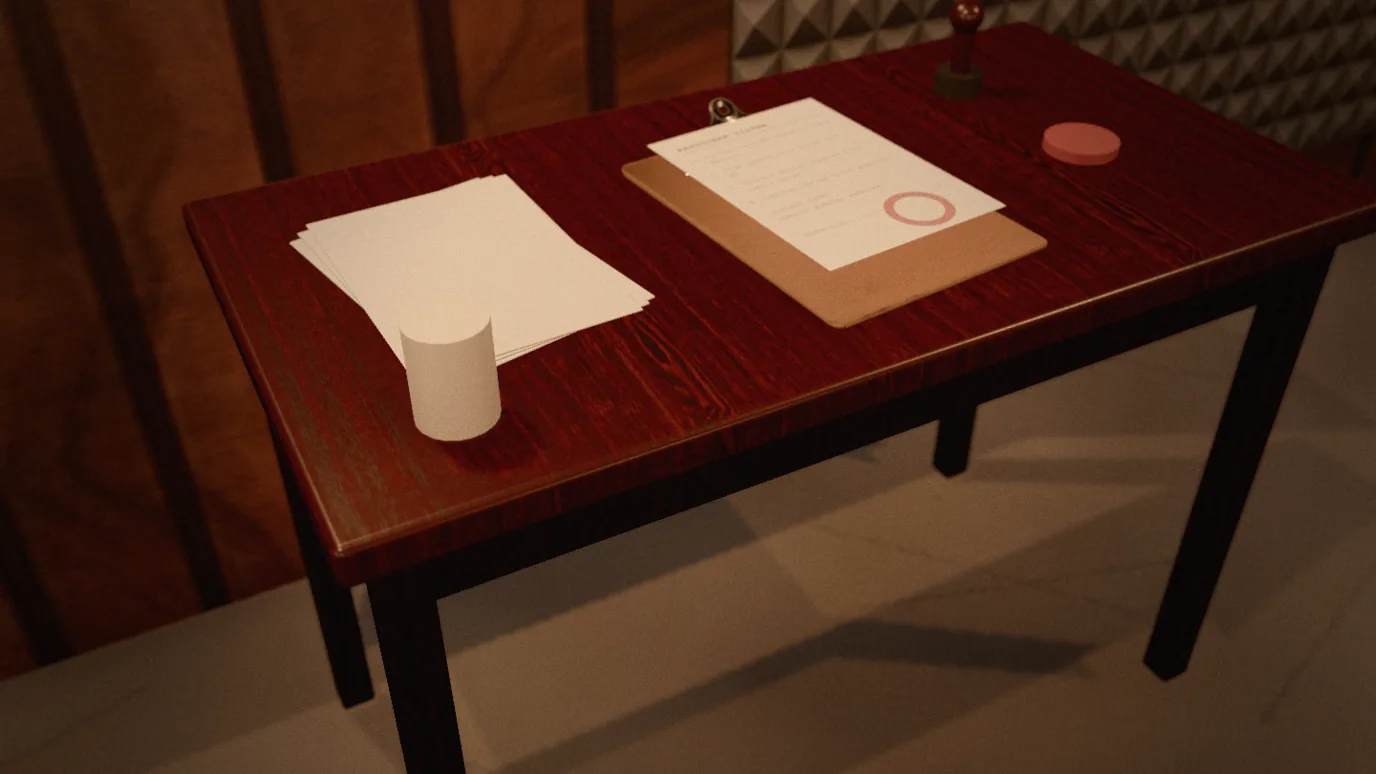
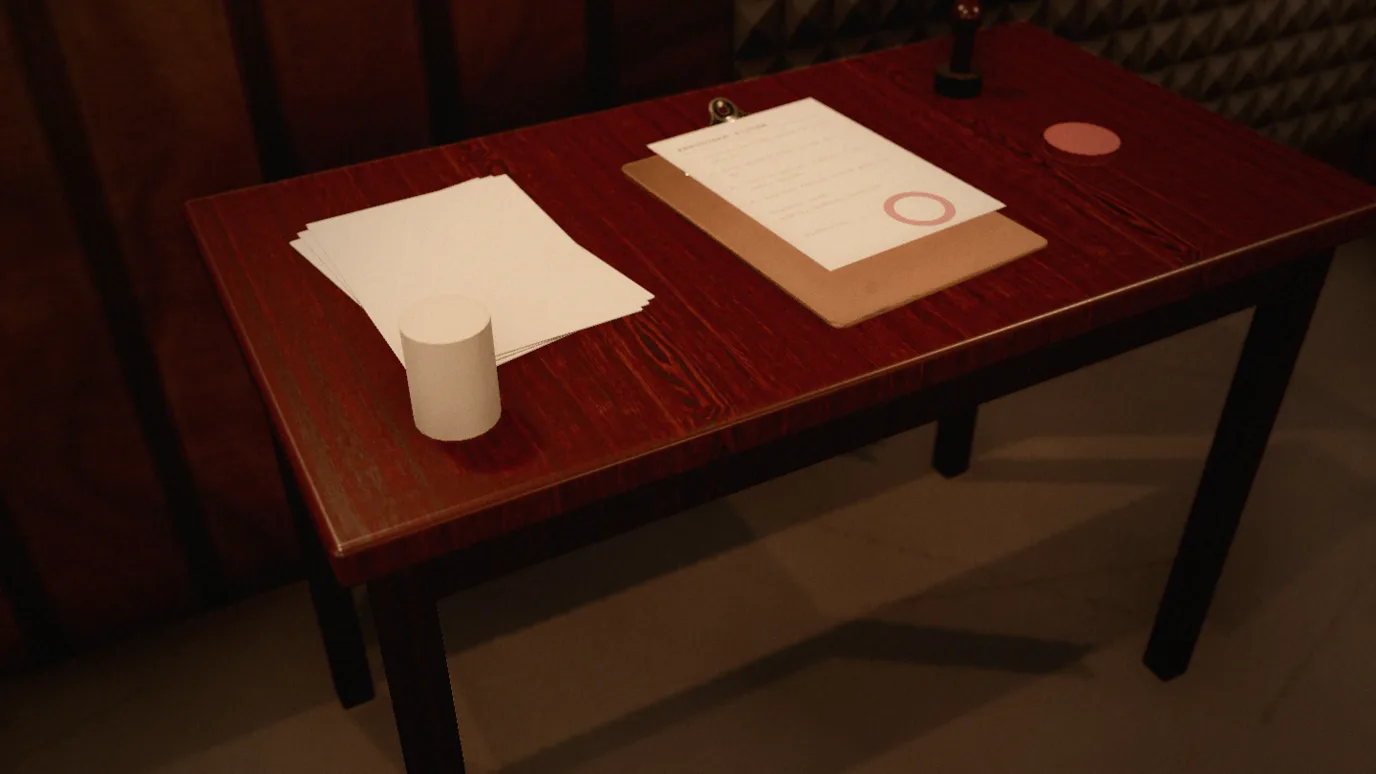
feat: bayangan kontak N8AO, latihan shader dunia dan rak dicicil
AO buatan sendiri diganti N8AO (n8ao 2.0.1, postprocessing 6.39.6) supaya
benda di tur cerita menempel ke meja. Setengah resolusi dimatikan karena
melempar galat dengan target pinjaman; penjaga kualitas menurunkan titik
lalu mematikan AO.

Jeda rak ternyata bukan soal bahan fisik: ANGLE baru menyelesaikan program
saat draw pertama. Latihan dunia kini ikut menggambar benda di luar
pandangan dan yang tersembunyi, rak dilatih tiga mesh per bingkai. Jeda
terbesar dekat rak 912 ke 546 ms, bingkai terburuk HP 685 ke 170 ms.

Gambar mode Ringan dibuat ulang. ADR 0017.

diff --git a/components/dunia/dunia.js b/components/dunia/dunia.js
@@ -1,6 +1,7 @@
 import * as THREE from "three";
 import { GLTFLoader } from "three/addons/loaders/GLTFLoader.js";
 import { MeshoptDecoder } from "three/addons/libs/meshopt_decoder.module.js";
+import { N8AOPass } from "n8ao";
 import { ANCHOR, anchorTegak, nyalaFondasi, easeInOut, poseAntara, durasiBlend, kekuatanBlur } from "./naskah";
 import { buatPropsCerita } from "./props";
 
@@ -403,9 +404,30 @@ export function buatDunia(wadah, { kurangiGerak = false, tema = "gelap", onProgr
   const sampel = hp ? 0 : 4;
   const kedalaman = new THREE.DepthTexture(1, 1);
   const target = new THREE.WebGLRenderTarget(1, 1, { type: THREE.HalfFloatType, samples: sampel, depthTexture: kedalaman });
+  // Ambient occlusion N8AO (ADR 0017): sudut, kolong, dan kaki benda gelap alami, supaya benda
+  // menapak. Adegan tetap digambar sekali ke `target`; N8AO memakai warna dan kedalamannya
+  // (autoRenderBeauty mati), lalu hasilnya, masih linear, dibaca lintasan layar di bawah.
+  const ao = new N8AOPass(scene, camera, 1, 1);
+  ao.beautyRenderTarget.dispose();
+  ao.beautyRenderTarget = target;
+  Object.assign(ao.configuration, {
+    autoRenderBeauty: false,
+    gammaCorrection: false,
+    aoRadius: 1.1,
+    distanceFalloff: 1,
+    intensity: 5,
+    aoSamples: hp ? 8 : 16,
+    denoiseSamples: hp ? 4 : 8,
+  });
+  // Jalur setengah resolusi N8AO (halfRes) tidak dipakai: dengan target adegan pinjaman ia
+  // melempar galat tiap bingkai (terukur 13 Nov 2026). HP memakai sampel lebih sedikit.
+  let aoAktif = true;
+  ao.configuration.color.setHex(0x1a1410);
+  const hasilAO = new THREE.WebGLRenderTarget(1, 1, { type: THREE.HalfFloatType });
+
   const blur = new THREE.ShaderMaterial({
     uniforms: {
-      tWarna: { value: target.texture },
+      tWarna: { value: hasilAO.texture },
       tDalam: { value: kedalaman },
       uBalik: { value: new THREE.Matrix4() },
       uLalu: { value: new THREE.Matrix4() },
@@ -420,7 +442,6 @@ export function buatDunia(wadah, { kurangiGerak = false, tema = "gelap", onProgr
       uDekat: { value: 0.05 },
       uJauh: { value: 40 },
       uPiksel: { value: new THREE.Vector2(1, 1) },
-      uAo: { value: hp ? 0 : 1 },
       uFokus: { value: 2 },
       uDof: { value: 0 },
     },
@@ -442,7 +463,6 @@ export function buatDunia(wadah, { kurangiGerak = false, tema = "gelap", onProgr
       uniform float uDekat;
       uniform float uJauh;
       uniform vec2 uPiksel;
-      uniform float uAo;
       uniform float uFokus;
       uniform float uDof;
       float acak(vec2 p) { return fract(sin(dot(p, vec2(12.9898, 78.233))) * 43758.5453); }
@@ -474,23 +494,6 @@ export function buatDunia(wadah, { kurangiGerak = false, tema = "gelap", onProgr
             }
             c.rgb = jumlah / bobot;
           }
-        }
-        // Ambient occlusion layar: delapan titik di sekitar piksel, gelap bila tetangganya lebih
-        // dekat ke kamera dalam jangkauan 30 cm. Membuat sudut, celah, dan kaki benda menyatu.
-        if (uAo > 0.5 && zKini < 15.0) {
-          float ao = 0.0;
-          float putar = acak(gl_FragCoord.xy + 7.0) * 6.2832;
-          float rad = 0.22 / zKini;
-          for (int i = 0; i < 8; i++) {
-            float fi = float(i);
-            float a = fi * 0.7854 + putar;
-            float r = rad * (0.35 + 0.65 * fract(fi * 0.618 + putar));
-            vec2 uv = vUv + vec2(cos(a) / uAspek, sin(a)) * r;
-            float zS = linear(texture2D(tDalam, uv).x);
-            float beda = zKini - zS;
-            ao += step(0.015, beda) * (1.0 - smoothstep(0.0, 0.3, beda));
-          }
-          c.rgb *= 1.0 - (ao / 8.0) * 0.55;
         }
         if (uKuat > 0.001) {
           float d = texture2D(tDalam, vUv).x;
@@ -542,6 +545,7 @@ export function buatDunia(wadah, { kurangiGerak = false, tema = "gelap", onProgr
     if (!kurangiGerak) blur.uniforms.uBenih.value = (blur.uniforms.uBenih.value + 37.13) % 1000;
     renderer.setRenderTarget(target);
     renderer.render(scene, camera);
+    if (aoAktif) ao.render(renderer, hasilAO);
     renderer.setRenderTarget(null);
     renderer.render(adeganLayar, kameraLayar);
     vpLalu.copy(vpKini);
@@ -601,6 +605,8 @@ export function buatDunia(wadah, { kurangiGerak = false, tema = "gelap", onProgr
     const pw = Math.max(1, Math.floor(w * rasio));
     const ph = Math.max(1, Math.floor(h * rasio));
     target.setSize(pw, ph);
+    ao.setSize(pw, ph);
+    hasilAO.setSize(pw, ph);
     camera.aspect = w / h;
     blur.uniforms.uAspek.value = w / h;
     blur.uniforms.uPiksel.value.set(1 / pw, 1 / ph);
@@ -629,8 +635,14 @@ export function buatDunia(wadah, { kurangiGerak = false, tema = "gelap", onProgr
     if (buruk >= 2 && rasio > 0.75) {
       buruk = 0;
       rasio = Math.max(0.75, rasio - 0.2);
-      // Langkah pertama yang dikorbankan: AO layar, efek termahal per piksel.
-      blur.uniforms.uAo.value = 0;
+      // Yang pertama dikorbankan AO: sampelnya dikurangi, lalu dimatikan.
+      if (ao.configuration.aoSamples > 8) {
+        ao.configuration.aoSamples = 8;
+        ao.configuration.denoiseSamples = 4;
+      } else if (aoAktif) {
+        aoAktif = false;
+        blur.uniforms.tWarna.value = target.texture;
+      }
       ukur();
     }
   };
@@ -806,15 +818,27 @@ export function buatDunia(wadah, { kurangiGerak = false, tema = "gelap", onProgr
 
   // Gambar latihan sekelompok benda ke render target 1 piksel. Benda lain disembunyikan hanya
   // di dalam panggilan ini, jadi bingkai biasa tidak pernah melihat adegan yang setengah.
+  // frustumCulled dimatikan: benda di luar pandangan kamera saat itu juga harus tergambar, kalau
+  // tidak programnya baru diselesaikan ANGLE saat pertama terlihat (trace 13 Nov 2026: 778 ms
+  // beku di dekat rak, karena GPU sedang mengompilasi shader rak).
   const latih = (kelompok) => {
     const sembunyi = [];
     scene.traverse((o) => o.isMesh && o.visible && !kelompok.includes(o) && (sembunyi.push(o), (o.visible = false)));
+    const pulih = kelompok.map((o) => [o, o.visible, o.frustumCulled]);
+    for (const o of kelompok) {
+      o.visible = true;
+      o.frustumCulled = false;
+    }
     target.scissor.set(0, 0, 1, 1);
     target.scissorTest = true;
     renderer.setRenderTarget(target);
     renderer.render(scene, camera);
     renderer.setRenderTarget(null);
     target.scissorTest = false;
+    for (const [o, v, f] of pulih) {
+      o.visible = v;
+      o.frustumCulled = f;
+    }
     for (const o of sembunyi) o.visible = true;
   };
 
@@ -886,23 +910,14 @@ export function buatDunia(wadah, { kurangiGerak = false, tema = "gelap", onProgr
     // Gambar latihan per beberapa benda, satu kelompok per bingkai, ke 1 piksel render target.
     // ANGLE (D3D11) baru menyelesaikan program saat draw pertama; sekaligus semuanya terukur
     // 386 ms beku. Dicicil begini, loader tetap bergerak.
+    // Termasuk benda yang masih tersembunyi atau di luar pandangan (lihat latih()).
     const benda = [];
-    scene.traverse((o) => o.isMesh && o.visible && benda.push(o));
-    target.scissor.set(0, 0, 1, 1);
-    target.scissorTest = true;
-    for (const o of benda) o.visible = false;
+    scene.traverse((o) => o.isMesh && benda.push(o));
     for (let i = 0; i < benda.length; i += 3) {
-      const kelompok = benda.slice(i, i + 3);
-      for (const o of kelompok) o.visible = true;
-      renderer.setRenderTarget(target);
-      renderer.render(scene, camera);
-      renderer.setRenderTarget(null);
-      for (const o of kelompok) o.visible = false;
+      latih(benda.slice(i, i + 3));
       onHangat(0.9 + (0.08 * (i + 3)) / benda.length);
       await bingkaiBerikut();
     }
-    for (const o of benda) o.visible = true;
-    target.scissorTest = false;
     await perbaruiBayangan();
     performance.mark("dunia:bayangan");
     gambar(0);
@@ -945,6 +960,8 @@ export function buatDunia(wadah, { kurangiGerak = false, tema = "gelap", onProgr
         });
       });
       target.dispose();
+      ao.dispose?.();
+      hasilAO.dispose();
       kedalaman.dispose();
       blur.dispose();
       segitiga.dispose();

diff --git a/components/imersif/adegan.js b/components/imersif/adegan.js
@@ -1060,11 +1060,14 @@ export function buatAdegan(wadah, { proyek, locale, kurangiGerak, onUbah, gulirH
   // Semua benda di `akar`, juga yang tersembunyi dan di luar pandangan, digambar sekali beserta
   // bayangannya. Bukan ke WebGLRenderTarget: di sana three.js mematikan tone mapping dan ruang
   // warna layar, jadi mengompilasi 9 shader versi lain yang tak terpakai (2,4 detik terbuang).
-  const renderLatihan = (akar) => {
+  // `hanya`: bila diisi, mesh lain di `akar` disembunyikan, supaya latihan bisa dicicil per
+  // beberapa benda. ANGLE baru menyelesaikan program (juga shader bayangan, yang tidak ikut
+  // compileAsync) saat draw pertama; sekaligus terukur 1 s beku (trace 13 Nov 2026).
+  const renderLatihan = (akar, hanya = null) => {
     const pulih = [];
     akar.traverse((o) => {
       pulih.push([o, o.visible, o.frustumCulled]);
-      o.visible = true;
+      o.visible = !hanya || !o.isMesh || hanya.has(o);
       o.frustumCulled = false;
     });
     renderer.setScissorTest(true);
@@ -1173,7 +1176,12 @@ export function buatAdegan(wadah, { proyek, locale, kurangiGerak, onUbah, gulirH
       if (t?.image) renderer.initTexture(t);
       await bingkaiBerikut();
     }
-    renderLatihan(scene);
+    const benda = [];
+    scene.traverse((o) => o.isMesh && benda.push(o));
+    for (let i = 0; i < benda.length; i += 3) {
+      renderLatihan(scene, new Set(benda.slice(i, i + 3)));
+      await bingkaiBerikut();
+    }
     if (bAwal) {
       scene.remove(bAwal);
       buangCadangan();

diff --git a/docs/decisions/0017-n8ao-screen-space-ao-for-the-shop-world.md b/docs/decisions/0017-n8ao-screen-space-ao-for-the-shop-world.md
@@ -1,0 +1,46 @@
+# 0017. N8AO for contact shadows in the shop world
+
+- Date: 2026-11-13
+- Status: Accepted. Extends ADR 0016 (props tour).
+
+## Context
+
+After two rounds of fixes Farrez still read the story props as "3D mentah atau melayang": objects
+did not seem to sit on their tables. Lamp shadows existed but were soft and far; what was missing
+was contact darkening where objects meet surfaces and each other. Our own depth AO (8 taps, 30 cm,
+desktop only) was too weak to read at story framing.
+
+## Options considered
+
+1. **N8AO** (`n8ao` 2.0.1, ISC, with `postprocessing` 6.39.6, Zlib, as its peer). Screen-space AO
+   with denoise, drops into the existing post chain.
+2. **Bake AO in Blender** for each prop and the room. Best quality and zero runtime cost, but every
+   prop change means a rebake, and the procedural props would need UV2 and a pipeline we do not have.
+3. **Strengthen our own SSAO.** No new dependency, but more taps and a denoise pass is rebuilding N8AO.
+
+## Decision
+
+Option 1. Decided by: Farrez, 13 Nov 2026 ("N8AO").
+
+## Reasoning
+
+In Farrez's words: "Hasil cepat, kerja kecil".
+
+## Consequences
+
+- `components/dunia/dunia.js` renders the scene into its own target, N8AO reads that target
+  (`autoRenderBeauty: false`) and writes into `hasilAO`, which the existing post shader samples.
+  Our own SSAO code and `uAo` are gone.
+- Half-resolution mode is off: with a borrowed beauty target it threw on phones. The quality guard
+  first drops samples to 8, then switches AO off.
+- Audit: `npm audit` 0 vulnerabilities; both packages pinned; `postprocessing` peer range is
+  `three >= 0.168 < 0.188`, so a three.js upgrade past 0.187 needs a postprocessing upgrade first.
+- Same day, the rack stall: the approved fix was to slim the rack materials (physical to standard).
+  Measured, it changed nothing (13 shader programs, stalls 628 and 912 ms), so it was reverted
+  before shipping. The probe showed ANGLE finishing a program only at its first draw: the world's
+  warm-up skipped meshes outside the camera, and the rack drew everything (and its shadow shaders)
+  in one frame. Warm-up draws now include off-screen and hidden meshes and go three meshes per
+  frame. Worst stall near the rack went from 912 to 546 ms (desktop), the phone's worst frame on
+  the way in from 685 to 170 ms. What is left is PMREM plus geometry when the rack is created.
+- Revisit if a three.js upgrade is blocked by the postprocessing peer range, or if baking becomes
+  cheap (a fixed prop set).

diff --git a/docs/look-dev.md b/docs/look-dev.md
@@ -197,7 +197,7 @@ Sepuluh benda tur cerita gulir mengikuti lembar ini, dengan tambahan atas permin
 | Bentuk | Model CC0 Poly Haven (laptop klasik, papan jepit, kotak listrik, bangku kayu), sisanya kode dengan `RoundedBoxGeometry` bertepi 2 sampai 12 mm |
 | Bahan | Tekstur PBR CC0 512 px: `wood_table_001`, `plywood`, `metal_plate`, plester dinding `plastered_wall_04` (warna, normal GL, roughness). UV kotak diproyeksikan per meter supaya serat tidak melar. AO model dari kanal merah peta ARM |
 | Bayangan | Semua lampu gantung (peta kubus 512, HP tanpa), lampu jalan (1024), dan lampu kunci babak (SpotLight, 1024, HP 512, 1,5 kali kuat lampu). Jadwal per lampu: yang diam dihitung sekali, dicicil satu lampu per bingkai; lampu kunci hanya saat benda bergerak. Bidang ruangan menerima, tidak membuat |
-| Layar | AO dari peta kedalaman (8 titik, jangkauan 30 cm, desktop saja) dan depth of field 12 titik ke benda babak saat kamera diam. Dimatikan saat gerak dikurangi |
+| Layar | AO N8AO sejak ADR 0017 (radius 1,1 m, kuat 5, warna `#1a1410`, 16 titik, HP 8, tanpa setengah resolusi; penjaga kualitas menurunkan titik lalu mematikannya) dan depth of field 12 titik ke benda babak saat kamera diam. Dimatikan saat gerak dikurangi |
 | Isi bayangan | Hemisphere malam turun dari 0,7 ke 0,5 supaya bayangan berkontras |
 | Layar produk | MeshBasic tanpa tone mapping, terang 0,85 sampai 0,95 |
 
@@ -226,6 +226,16 @@ Kompilasi async, loader tetap bergerak. Tanpa tugas panjang saat props dimuat di
   digambar ulang hanya saat benda bergerak.
 - Mode terang: kabut 12 sampai 32 m (dulu 6 sampai 18), selubung teks dilepas di babak cerita
   (opacity 0,2), depth of field maksimal 4,5 px (dulu 7).
+
+### Bayangan kontak dan jeda rak (13 Nov 2026 malam, ADR 0017)
+
+- AO buatan sendiri diganti N8AO: benda kini menempel di meja, ada gelap di sela benda.
+- Perampingan bahan rak (fisik ke standar) diukur tidak mengubah apa pun (13 program, jeda 628
+  dan 912 ms), jadi dibatalkan. Penyebab yang terukur: ANGLE baru menyelesaikan program saat draw
+  pertama. Gambar latihan dunia kini ikut menggambar benda di luar pandangan dan yang tersembunyi,
+  rak dilatih tiga mesh per bingkai. Jeda terbesar dekat rak 912 ke 546 ms (desktop), bingkai
+  terburuk HP saat masuk babak andal 685 ke 170 ms. Sisa: PMREM dan geometri saat rak dibuat.
+- Gambar mode Ringan dibuat ulang dengan AO baru.
 
 ## Riwayat keputusan
 

diff --git a/public/assets/cerita/PROVENANCE.md b/public/assets/cerita/PROVENANCE.md
@@ -7,5 +7,6 @@ styleframe Flow. Bukan buatan AI; layar produk di dalamnya tangkapan asli atau r
 
 - Alat: `scripts/foto-babak.mjs` (Chrome headless, GPU, 1440x900, kanvas dunia saja), posisi gulir
   60% tiap bab, bab rilis 25%.
-- Pengolahan: potong 1440x810, perkecil ke 1376x774, WebP q82 (ffmpeg).
+- Pengolahan: potong 1440x810, perkecil ke 1376x774, WebP q82 (ffmpeg), potong di y 45.
+- Dibuat ulang 13 Nov 2026 malam sesudah AO N8AO (ADR 0017).
 - Styleframe v3 dan peta kedalamannya dilepas dari situs; riwayatnya di `desain/cerita-v3/`.
